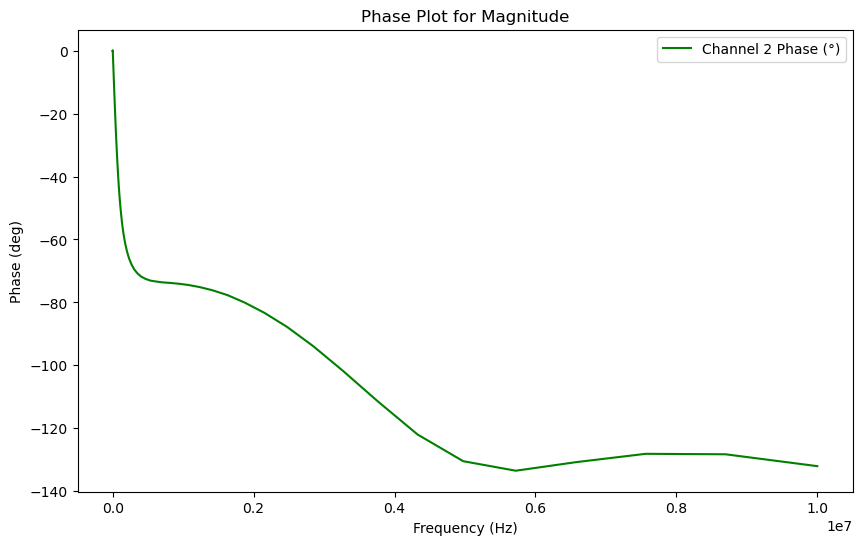
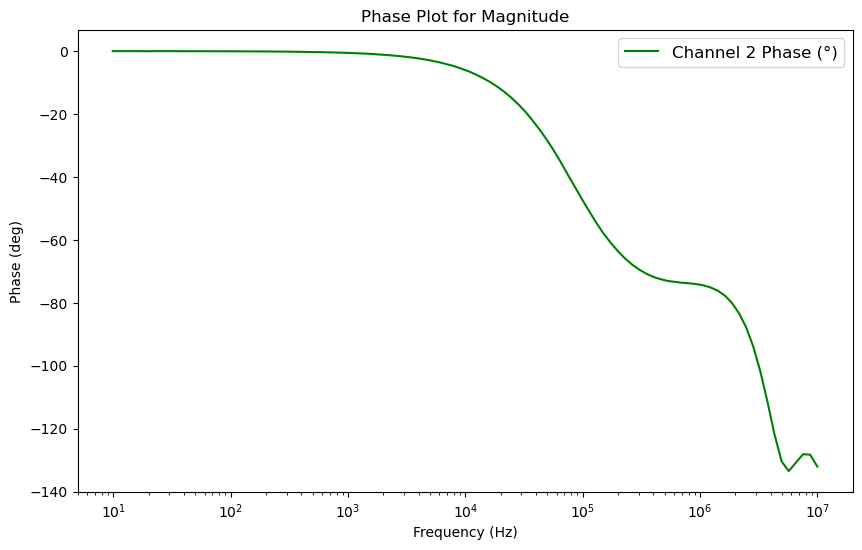
Replaced non-log x axis phase and added MAX file for L6D3
Replaced phase plot for non-inverting amp with corrected axis.

diff --git a/L6D3/MAX7219.py b/L6D3/MAX7219.py
@@ -1,0 +1,313 @@
+#!/usr/bin/env python3
+#
+# This module will steer a MAX7219 chip.
+#
+# The MAX7219 is an LED driver that can steer 8x 7-segment numerical display, or
+# an 8x8 Matrix of LEDs.
+#
+# Author: Maurik Holtrop
+#
+try:
+    import RPi.GPIO as GPIO
+except ImportError:
+    pass
+try:
+    import Adafruit_BBIO as GPIO
+except ImportError:
+    pass
+
+try:
+    import spidev
+except ImportError:
+    pass
+
+from DevLib import BBSpiDev
+
+import time
+
+
+class MAX7219:
+    def __init__(self, data_pin, clk_pin, cs_bar_pin, mode=1):
+        """This class helps with driving a MAX7219 LED module using either regular
+        GPIO pins, or SPI hardware interface.
+        For SPI hardware, set DATA_pin=0, CS_bar_pin=0 or 1, CLK_pin= bus speed (1000000)
+        For GPIO "bit-bang" interface, set DATA_pin = Data in (dat),
+        CS_bar = to Chip Select (cs), and CLK_pin= Clock (clk)
+        A final argument, mode=1 (default) sets number decoding, while
+        mode=0 sets raw mode, see the MAX7219 chip data sheet.
+        -------
+        This code expects the pin numbers in the BSM standard.
+        The Raspberry Pi interfacing is done through the RPi.GPIO module
+        or the spidev module, the BBB with Adafruit_BBIO or spidev module"""
+
+        self._DATA = data_pin
+        self._CS_bar = cs_bar_pin
+        self._CLK = clk_pin
+        self._Mode = mode
+        self._dev = None
+
+        if self._DATA == 0:
+            self._DATA = None
+        if self._DATA is None:
+            if self._CLK < 1:
+                self._CLK = 1000000
+            # Initialize the SPI hardware device
+            self._dev = spidev.SpiDev(0, self._CS_bar)
+        else:
+            self._dev = BBSpiDev(self._CS_bar, self._CLK, self._DATA, None)
+
+        self._dev.mode = 0
+        self._dev.max_speed_hz = self._CLK
+        self._dev.bits_per_word = 8
+        self._translate = {" ": 0b00000000, "A": 0b01110111, "B": 0b00011111, "C": 0b01001110, "D": 0b00111101,
+                           "E": 0b01001111, "F": 0b01000111, "G": 0b01111011, "H": 0b00110111, "I": 0b00000110,
+                           "J": 0b00111000, "K": 0b00110111, "L": 0b00001110, "M": 0b10010011, "N": 0b00010101,
+                           "O": 0b00011101, "P": 0b01100111, "Q": 0b01110011, "R": 0b00000101, "S": 0b01011011,
+                           "T": 0b00001111, "U": 0b00011100, "V": 0b00111110, "W": 0b10111110, "X": 0b10100101,
+                           "Y": 0b00100111, "Z": 0b01101101, "1": 0b00110000, "2": 0b01101101, "3": 0b01111001,
+                           "4": 0b00110011, "5": 0b01011011, "6": 0b01011111, "7": 0b01110000, "8": 0b01111111,
+                           "9": 0b01110011, "0": 0b01111110}
+        self.init(mode)
+
+    def init(self, mode):
+        """ Initialize the MAX7219 Chip. Mode=1 is for numbers, mode=2 is no-decode.
+        This will send an initialization sequence to the chip.
+        With an __init__ this method is already called."""
+        self.write_loc_char(0x0F, 0x01)  # Test ON
+        time.sleep(0.5)
+        self.write_loc_char(0x0F, 0x00)  # Test OFF
+
+        self.write_loc_char(0x0B, 0x07)  # All 8 digits
+        self.write_loc_char(0x0A, 0x0B)  # Quite bright
+        self.write_loc_char(0x0C, 1)     # Set for normal operation.
+        self.set_mode(mode)
+        self.clear()
+
+    def __del__(self):          # This is automatically called when the class is deleted.
+        """Delete and cleanup."""
+        self.write_loc_char(0x0C, 0x0)  # Turn off
+        self._dev.close()
+
+    def clear(self):
+        """Clear the display to all blanks. (it looks off)"""
+        for i in range(8):
+            if self._Mode == 1:
+                self.write_loc_char(i + 1, 0x0F)  # Blank
+            else:
+                self.write_loc_char(i + 1, 0x00)  # Blank
+
+    def set_mode(self, mode=1):
+        """Set the decode mode. If mode=1 the data written will be decoded as numbers. If mode=0 the
+        device is in raw mode. For the write_text() we need raw mode."""
+        self._Mode = mode
+        if mode == 1:
+            self.write_loc_char(0x09, 0xFF)  # Decode mode
+        else:
+            self.write_loc_char(0x09, 0x00)  # Raw mode
+
+
+    def set_brightness(self, brightness):
+        """Set the display brightness to B, where 0<=B<16"""
+        brightness = brightness & 0x0F
+        self.write_loc_char(0x0A, brightness)  # Set brightness
+
+    def write_data(self, data):
+        """Write the 16 bit data to the output using SPI or
+         "bit-banged" SPI on the GPIO output line.
+        This is a "raw" mode write, used internally in these methods."""
+        self._dev.writebytes([(data >> 8) & 0xFF, data & 0xFF])  # Write the first and second byte from data.
+
+    def write_loc_char(self, loc, dat):
+        """Write dat to loc. If the mode is 1 then dat is a number and loc is the location.
+        If mode is 2 then dat is an 8 bit LED position.
+        This is used internally to display the numbers/characters."""
+        # if self.DATA is not None:
+        #     out = (loc <<8)
+        #     out += dat
+        #     #out += 0b0000000000000000  # Dummy bits
+        #     self.WriteData(out)
+        # else:
+        self._dev.writebytes([loc, dat])
+
+    def write_int(self, n):
+        """ Write the integer n on the display, shifted left. If n is larger (smaller) than
+        fits, an overflow is indicated by all dash."""
+
+        if self._Mode != 1:
+            set_mode(1)
+
+        self.write_loc_char(0x09, 0xFF)  # Set to interpret mode.
+
+        if n > 99999999 or n < -9999999:  # Display overflow, --------
+            for i in range(8):
+                self.write_loc_char(i + 1, 0x0A)
+            return
+
+        if n < 0:
+            negative = True
+            n = -n
+        else:
+            negative = False
+        for i in range(8):
+            n, d = divmod(n, 10)
+            if n == 0 and d == 0:
+                if i == 0:
+                    self.write_loc_char(i + 1, 0x0)  # 0
+                else:
+                    if negative:
+                        self.write_loc_char(i + 1, 0x0A)
+                        negative = False
+                    else:
+                        self.write_loc_char(i + 1, 0x0F)  # Blank
+            else:
+                self.write_loc_char(i + 1, d)
+
+    def write_float(self, f, form='{:9.6f}'):
+        """Write a floating point number. Trying to use a reasonable format.
+        You can specify the format with the form= argument, using the python
+        style, to use with form="{:4.2f}" or form="{:8.4e}" """
+
+        if self._Mode != 1:
+            self.set_mode(1)
+
+        self.write_loc_char(0x09, 0xFF)  # Set to interpret mode.
+
+        s = form.format(f)
+        loc = 1
+        high_bit = 0
+        rev = reversed(s[0:8+s.count('.')+s.count('e')])  # Read the letters reversed, starting at the end.
+        for c in rev:       # Get each of the numbers/symbols, starting with the rightmost.
+            if c == '.':    # If it is the period, then set bit7 but don't count as a digit.
+                high_bit = 1
+            else:
+                if c.isdigit():  # It is a digit.
+                    i = int(c)
+                    i += high_bit << 7
+                    self.write_loc_char(loc, i)
+                    loc += 1
+                elif c == ' ':
+                    self.write_loc_char(loc, 0x0F)  # Write blank
+                    loc += 1
+                elif c == '+':
+                    self.write_loc_char(loc, 0x0B)  # Write E
+                    loc += 1
+                elif c == '-':
+                    self.write_loc_char(loc, 0x0A)  # Write -
+                    loc += 1
+                elif c == 'e' or c == 'E':         # Skip the E, E- too long.
+                    pass
+                else:
+                    print("Bad char in string: ", c)
+                high_bit = 0
+        while loc < 9:                    # Fill the end with blanks
+            self.write_loc_char(loc, 0x0F)  # Write blank
+            loc += 1
+
+    def write_text(self, text):
+        """Attempt to write the text given. This is pretty limited, since not all characters work
+        for a 7-segment display."""
+        if len(text) > 8:
+            print("Text supplied will not fit on display.")
+
+        if self._Mode == 1:
+            self.set_mode(0)
+
+        out_str = "{:>8s}".format(text)
+        loc = 8
+        for lett in out_str.upper():
+
+            out = 0b1000000
+            if lett in self._translate:
+                out = self._translate[lett]
+
+            self.write_loc_char(loc, out)
+            loc = loc - 1
+
+    def __str__(self):
+        """Write something comforting to the user :-) """
+        if self._DATA > 0:
+            print("MAX7219 driver interface. GPIO mode: DATA={} CS_bar={} CLK={}", self._DATA, self._CS_bar, self._CLK)
+
+
+# The code below turns this module into a program as well
+# allowing you to run it in test mode from the command line.
+
+def main(argv):
+    """Test the functioning of the module displaying
+    the number 12345678, and then counting down.
+    The code will use:
+    Data pin   = 4
+    CLK pin    = 5
+    CS_bar pin = 6
+    Unless different pins are specified on the command line.
+    """
+    import random
+
+    if len(argv) < 4:
+        max_data = 4
+        max_clock = 5
+        max_cs_bar = 6
+        print("Using bit bang mode DIN->{} CLK->{} CS->{} ".format(max_data, max_clock, max_cs_bar))
+    else:
+        if int(argv[1]) == 0:
+            max_data = None
+        else:
+            max_data = int(argv[1])
+        max_clock = int(argv[2])
+        max_cs_bar = int(argv[3])
+        if max_data:
+            print("Using bit bang mode DIN->{} CLK->{} CS->{} ".format(max_data, max_clock, max_cs_bar))
+        else:
+            print("Using SPIdev with CLK->{} CS->{} ".format(max_clock, max_cs_bar))
+
+    print("Use crtl-c to interrupt. ")
+    mchip = MAX7219(cs_bar_pin=max_cs_bar, clk_pin=max_clock, data_pin=max_data)
+    num = 12345678
+    mchip.write_int(num)
+    print(num)
+    time.sleep(1)
+    mchip.write_float(9.87654321)
+    time.sleep(1)
+    mchip.write_float(1.23E12, "{:9.2e}")
+    time.sleep(1)
+    for text in ["DEAD    ", "    BEEF", "BAD FOOD", "  HELP  ", "  ERROR ", "ABCDEFGH", "IJKLMNOP",
+                 "QRSTUVWX", "YZ 12345"]:
+        mchip.write_text(text)
+        time.sleep(2)
+
+    num = 76543210
+    mchip.write_int(num)
+    print(num)
+    time.sleep(1)
+
+    # Test raw mode.
+    mchip.write_loc_char(0x09, 0x00)
+    for i in range(1, 9):
+        mchip.write_loc_char(i, 0)
+
+    for i in range(7, -1, -1):
+        for j in range(1, 9):
+            mchip.write_loc_char(j, 1 << i)
+        time.sleep(0.2)
+
+    for i in range(40):
+        for j in range(1, 9):
+            mchip.write_loc_char(j, random.randint(1, 255))
+        time.sleep(0.1)
+
+    mchip.write_loc_char(0x09, 0xFF)
+
+    try:
+        for i in range(num, 0, -1):
+            mchip.write_int(i)
+            time.sleep(0.01)
+    except KeyboardInterrupt:
+        print(" Interrupted")
+    except Exception as e:
+        print("Error")
+        print(e)
+
+
+if __name__ == '__main__':
+    import sys
+    main(sys.argv)
